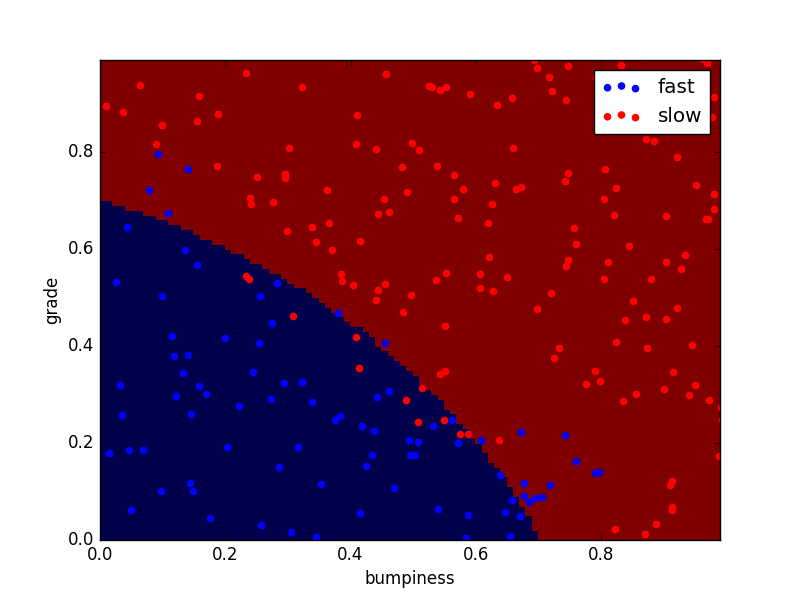
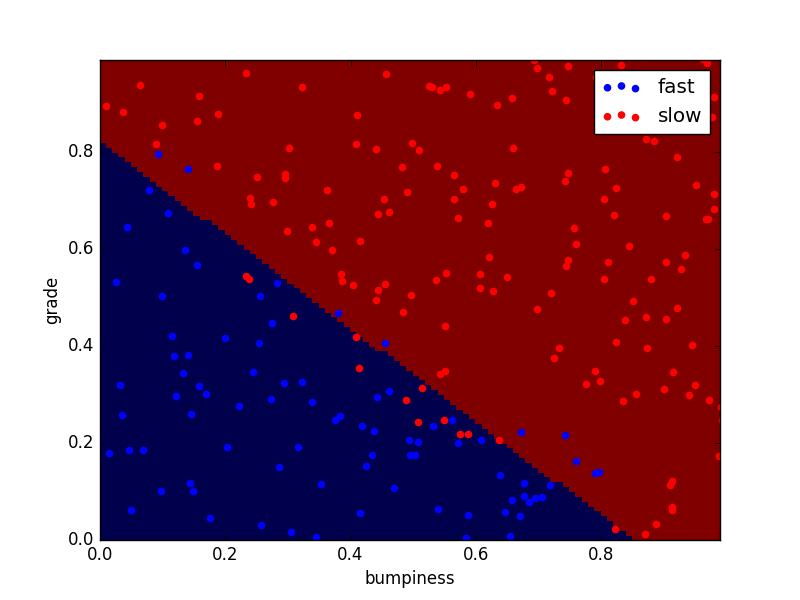
t  with '#' will be ignored, and an empty message aborts the commit.

diff --git a/terrain_speed_svm.py b/terrain_speed_svm.py
@@ -8,6 +8,7 @@ matplotlib.use('agg')
 import matplotlib.pyplot as plt
 import pylab as pl
 import numpy as np
+from sklearn import svm
 
 #import numpy as np
 #import matplotlib.pyplot as plt
@@ -101,12 +102,6 @@ def makeTerrainData(n_points=1000):
 
 
 
-from sklearn.naive_bayes import GaussianNB
-
-import numpy as np
-import pylab as pl
-
-
 features_train, labels_train, features_test, labels_test = makeTerrainData()
 
 ### the training data (features_train, labels_train) have both "fast" and "slow" points mixed
@@ -120,7 +115,7 @@ bumpy_slow = [features_train[ii][1] for ii in range(0, len(features_train)) if l
 
 # You will need to complete this function imported from the ClassifyNB script.
 # Be sure to change to that code tab to complete this quiz.
-clf = GaussianNB()
+clf = svm.SVC(kernel = 'linear')
 
 clf.fit(features_train,labels_train)
 
